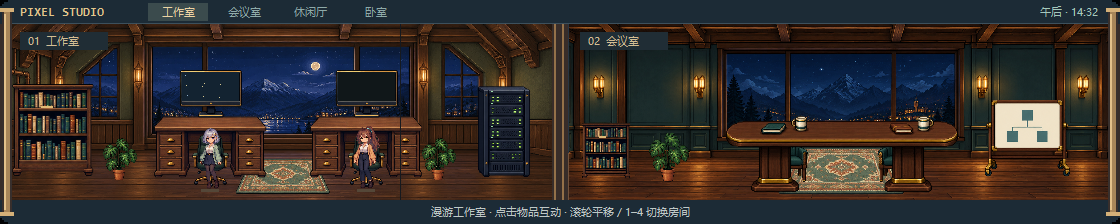
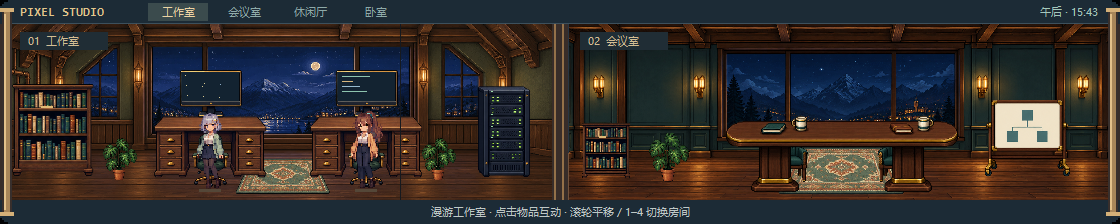
Scale studio characters and companion animations to 125 percent

diff --git a/scene_actors.py b/scene_actors.py
@@ -178,6 +178,7 @@ class ActorLayer:
 
     def draw(self):
         c, now = self.canvas, time.monotonic()
+        scaled = lambda value: round(value*self.characters.WORLD_SCALE)
         c.delete("actors")
         for key, a in sorted(self.actors.items(), key=lambda item: item[1]["y"]):
             x, y = round(a["x"]), round(a["y"])
@@ -188,38 +189,41 @@ class ActorLayer:
             caring_here = caring and not moving
             pose = "speaking" if speaking else "listening" if seated or rising else "idle"
             if seated:
-                y -= round(8*max(0, 1-(now-a["settle_started"])/.4))
+                y -= scaled(8*max(0, 1-(now-a["settle_started"])/.4))
             elif rising:
-                y -= round(8*(1-(a["rise_until"]-now)/.4))
+                y -= scaled(8*(1-(a["rise_until"]-now)/.4))
             elif caring_here:
-                y += 2
+                y += scaled(2)
             tag = ("actors", "actor:"+key)
             a["front"] = y >= 180
-            c.create_rectangle(x-9, y-1, x+9, y+2, fill="#544738", outline="", tags=tag)
+            c.create_rectangle(x-scaled(9), y-scaled(1), x+scaled(9), y+scaled(2), fill="#544738", outline="", tags=tag)
             image, dx, dy = self.characters.sample(key, a["state"], moving=moving and not rising,
                                                    pose=pose, facing=a["facing"])
             if image:
                 width, height = image.width(), image.height()
                 c.create_image(x+dx, y+dy, image=image, anchor="s", tags=tag)
             else:
-                draw_fallback(c, x+dx, y+dy, self.characters.assignments.get(key, 0), tag)
-                width, height = 20, 40
+                draw_fallback(c, x+dx, y+dy, self.characters.assignments.get(key, 0), tag,
+                              scale=self.characters.WORLD_SCALE)
+                width, height = scaled(20), scaled(40)
             a["image"] = image
             a["bounds"] = (x+dx-width//2, y+dy-height, x+dx-width//2+width, y+dy)
             if caring_here:
                 self._draw_care(x+dx, y+dy, height, a, now, tag)
             if now < a["react_until"]:
                 lift = int((now*6) % 2)
-                c.create_line(x+width//2+1, y-height+12, x+width//2+4, y-height+8-lift,
-                              fill="#e6c58a", width=2, tags=tag)
-                c.create_rectangle(x+width//2+6, y-height+4-lift, x+width//2+8, y-height+6-lift,
+                c.create_line(x+width//2+scaled(1), y-height+scaled(12),
+                              x+width//2+scaled(4), y-height+scaled(8-lift),
+                              fill="#e6c58a", width=scaled(2), tags=tag)
+                c.create_rectangle(x+width//2+scaled(6), y-height+scaled(4-lift),
+                                   x+width//2+scaled(8), y-height+scaled(6-lift),
                                    fill="#f0d4a0", outline="", tags=tag)
             badge = "?" if a["state"] in {"unknown", "notLoaded"} else "!" if a["state"] == "systemError" else ""
             if badge and key == self.selected:
-                c.create_text(x-width//2-5, y-height+5, text=badge, fill=COLORS[a["state"]],
-                              font=("Consolas", 10, "bold"), tags=tag)
+                c.create_text(x-width//2-scaled(5), y-height+scaled(5), text=badge, fill=COLORS[a["state"]],
+                              font=("Consolas", scaled(10), "bold"), tags=tag)
             if key == self.selected:
-                c.create_rectangle(x-9, y+3, x+9, y+5, fill="#f3ca7d", outline="", tags=tag)
+                c.create_rectangle(x-scaled(9), y+scaled(3), x+scaled(9), y+scaled(5), fill="#f3ca7d", outline="", tags=tag)
             if a["meeting"]:
                 activity = ("入座中" if moving and y < 185 else "前往会议室") if moving else ("交流中" if speaking else "听取总结")
             elif caring:
@@ -231,42 +235,50 @@ class ActorLayer:
             label = a["name"] + " · " + activity
             a["label_bounds"] = (0, 0, 0, 0)
             if key == self.selected or now < a["react_until"]:
-                a["label_bounds"] = (x-54, y-height-24, x+54, y-height-9)
+                a["label_bounds"] = (x-scaled(54), y-height-scaled(24), x+scaled(54), y-height-scaled(9))
                 c.create_rectangle(*a["label_bounds"], fill="#1c2b36", outline="#475758", tags=tag)
-                c.create_text(x, y-height-17, text=label[:18], fill=COLORS[a["state"]],
-                              font=("Microsoft YaHei UI", 7), tags=tag)
+                c.create_text(x, y-height-scaled(17), text=label[:18], fill=COLORS[a["state"]],
+                              font=("Microsoft YaHei UI", scaled(7)), tags=tag)
 
     def _draw_care(self, x, y, height, actor, now, tag):
         """Small pixel reach and props share the actor's existing draw layer."""
         c = self.canvas
+        scale = self.characters.WORLD_SCALE
+        def rect(x1, y1, x2, y2, **options):
+            c.create_rectangle(round(x+x1*scale), round(y+y1*scale),
+                               round(x+x2*scale), round(y+y2*scale), **options)
+        def line(x1, y1, x2, y2, **options):
+            options["width"] = max(1, round(options.get("width", 1)*scale))
+            c.create_line(round(x+x1*scale), round(y+y1*scale),
+                          round(x+x2*scale), round(y+y2*scale), **options)
         elapsed = max(0, now-(actor["care_started"] or now))
         beat = int(elapsed/.38) % 4
         bob = (0, 1, 0, -1)[beat]
-        hand_x, hand_y = x+16, y-max(15, height//2)+8+bob
+        hand_x, hand_y = 16, -max(15, height/(2*scale))+8+bob
         sleeve = "#8dad99" if self.characters.assignments.get(actor["id"], 0) == 0 else "#d3a37c"
-        c.create_rectangle(x+5, hand_y-10, x+10, hand_y-3, fill=sleeve, outline="", tags=tag)
-        c.create_rectangle(x+8, hand_y-5, hand_x, hand_y, fill=sleeve, outline="", tags=tag)
-        c.create_rectangle(hand_x-1, hand_y-3, hand_x+4, hand_y+1, fill="#e9c6a7", outline="", tags=tag)
+        rect(5, hand_y-10, 10, hand_y-3, fill=sleeve, outline="", tags=tag)
+        rect(8, hand_y-5, hand_x, hand_y, fill=sleeve, outline="", tags=tag)
+        rect(hand_x-1, hand_y-3, hand_x+4, hand_y+1, fill="#e9c6a7", outline="", tags=tag)
         action = self.care["action"]
         if action in {"feed", "water"}:
             color = "#dfb579" if action == "feed" else "#8fcad4"
             for index in range(3):
                 drop = (beat+index*2) % 6
                 px, py = hand_x+4+index*3, hand_y+3+drop*3
-                c.create_rectangle(px, py, px+2, py+(2 if action == "feed" else 3),
+                rect(px, py, px+2, py+(2 if action == "feed" else 3),
                                    fill=color, outline="", tags=tag)
         elif action == "play":
-            c.create_line(hand_x+2, hand_y-1, hand_x+13, hand_y-7,
+            line(hand_x+2, hand_y-1, hand_x+13, hand_y-7,
                           fill="#d9bd8c", width=2, tags=tag)
-            c.create_line(hand_x+13, hand_y-7, hand_x+15+bob, hand_y+7,
+            line(hand_x+13, hand_y-7, hand_x+15+bob, hand_y+7,
                           fill="#ead9b8", width=1, tags=tag)
-            c.create_rectangle(hand_x+12+bob, hand_y+7, hand_x+18+bob, hand_y+11,
+            rect(hand_x+12+bob, hand_y+7, hand_x+18+bob, hand_y+11,
                                fill="#d89179", outline="", tags=tag)
         else:
             hx, hy = hand_x+8, hand_y-12-bob
             for ox, oy, width, height in ((0, 0, 3, 3), (5, 0, 3, 3),
                                           (0, 2, 8, 3), (2, 5, 4, 2), (3, 7, 2, 1)):
-                c.create_rectangle(hx+ox, hy+oy, hx+ox+width, hy+oy+height,
+                rect(hx+ox, hy+oy, hx+ox+width, hy+oy+height,
                                    fill="#dca395", outline="", tags=tag)
 
     def raise_walkers(self):

diff --git a/character_sprites.py b/character_sprites.py
@@ -25,6 +25,14 @@ def character_bank(widget):
 
 
 class CharacterSprites:
+    WORLD_SCALE = 5/4
+
+    @staticmethod
+    def world_frame(image):
+        # Keep the existing integer sampling, then enlarge by exactly 5:4.
+        # Cache the resulting frames at load time, including their transparency.
+        return image.zoom(5, 5).subsample(4, 4)
+
     def __init__(self, root):
         self.root = root
         self.assignments = {"companion:codex": 0, "companion:kimi": 1}
@@ -43,7 +51,8 @@ class CharacterSprites:
                     for x1, y1, x2, y2 in row:
                         crop = tk.PhotoImage(master=root, width=x2-x1, height=y2-y1)
                         root.tk.call(crop, "copy", sheet, "-from", x1, y1, x2, y2, "-to", 0, 0)
-                        frames.append(crop.subsample(factor))
+                        sampled = crop.subsample(factor)
+                        frames.append(self.world_frame(sampled) if size == "world" else sampled)
                     variants.append(frames)
                 self.frames[size] = variants
         except (OSError, ValueError, KeyError, TypeError, tk.TclError):
@@ -59,7 +68,7 @@ class CharacterSprites:
                     for x1, y1, x2, y2 in row[pose]:
                         crop = tk.PhotoImage(master=root, width=x2-x1, height=y2-y1)
                         root.tk.call(crop, "copy", sheet, "-from", x1, y1, x2, y2)
-                        frames.append(crop.subsample(factor))
+                        frames.append(self.world_frame(crop.subsample(factor)))
                     variants.append(frames)
                 self.motion[pose] = variants
         except (OSError, ValueError, KeyError, TypeError, tk.TclError):
@@ -112,10 +121,11 @@ class CharacterSprites:
             if str(image) not in self.mirrored:
                 self.mirrored[str(image)] = image.subsample(-1, 1)
             image = self.mirrored[str(image)]
-        return image, sway, breathe
+        scale = self.WORLD_SCALE if size == "world" else 1
+        return image, round(sway*scale), round(breathe*scale)
 
 
-def draw_fallback(canvas, x, feet, variant, tag):
+def draw_fallback(canvas, x, feet, variant, tag, *, scale=1):
     """Small human silhouette if the optional PNG cannot be read."""
     hair = "#b7accb" if variant == 0 else "#855b47"
     coat = "#8dad99" if variant == 0 else "#d3a37c"
@@ -125,5 +135,6 @@ def draw_fallback(canvas, x, feet, variant, tag):
         (-6, -8, 5, 8, "#293849"), (1, -8, 5, 8, "#293849"),
         (-3, -29, 2, 2, "#263443"), (2, -29, 2, 2, "#263443"),
     ):
-        canvas.create_rectangle(x+dx, feet+dy, x+dx+w, feet+dy+h,
+        canvas.create_rectangle(round(x+dx*scale), round(feet+dy*scale),
+                                round(x+(dx+w)*scale), round(feet+(dy+h)*scale),
                                 fill=color, outline="", tags=tag)

diff --git a/README.md b/README.md
@@ -26,7 +26,7 @@ Windows 桌面悬浮小组件：一座有工作、交流、休憩与照护活动
 - **真实模型照护**：`k3-256k` 通过本机网关生成小猫心愿，选择行动和照护伙伴。Codex 或 Kimi 走到位并完成动作后才更新数值和照护记录；总结会议优先，过期安排丢弃。可随时暂停思考，连接失败会显示错误，不用规则冒充模型决定
 - **Codex / Kimi 常驻伙伴**：两位角色拥有固定身份；Codex 展示本机最近活动的主任务、执行状态和模型，Kimi 展示网关中真实的 Kimi 模型调用、接收阶段、耗时与最近传输结果。约每 2 秒读取一次，历史子代理不再决定角色数量。角色常驻不表示有两个子代理正在运行
 - **自动总结会**：Codex 进入最终答复阶段，或观察到本轮任务刚结束时，两位伙伴步行到会议室、入座交流；结束信号后保留约 35 秒再起身返回。会议完全由真实状态触发，白板与长桌可查看说明；下方卡片继续展示真实状态
-- **像素美少女造型**：Codex 固定银紫短发／薄荷开衫，Kimi 固定栗色马尾／杏色开衫；画卷与伙伴卡共用精灵图。场景人物约 64px 高，列表头像约 38px 高，刷新和状态变化不会换造型
+- **像素美少女造型**：Codex 固定银紫短发／薄荷开衫，Kimi 固定栗色马尾／杏色开衫；画卷与伙伴卡共用精灵图。场景人物以原版的 1.25 倍显示（高度上限约 80px），列表头像约 38px 高，刷新和状态变化不会换造型
 - **待机动画**：四帧精灵配合轻微呼吸、重心摆动，约每 4.2–6 秒眨眼；两位伙伴的动作错开节奏。待机动画只表现角色外观，数据不可用时仍显示“状态未知”，不会因动作被计为运行中
 - **连续动作**：独立步行动作帧、随移动方向转身、坐下与起立过渡；开会时面对彼此，交替发言、抬手与点头，白板逐步出现示意笔迹、杯口飘出蒸汽。空闲时在活动区小范围散步，点击伙伴会回应。画卷约 33ms 推进与合并绘制，家具保留原来的动画节奏；房间切换使用平滑镜头
 - **合并渲染**：提前准备透明窗口与固定画布，使用遮罩展开画卷，窄栏保持屏幕位置；收放与场景共用动画时钟。人物、物品效果和界面图元复用，尺寸与输入变化合并到一次绘制，避免每帧重建图元及反复缩放整个窗口。

diff --git a/docs/02-常驻伙伴与总结会议.md b/docs/02-常驻伙伴与总结会议.md
@@ -48,7 +48,8 @@
 
 ## 动画与素材
 
-- `characters-idle.png` 保留两套四帧待机动作；`characters-motion.png` 是以原角色为参考生成的 1774×887 RGBA 图集，每套增加四帧步行、两帧坐姿、两帧发言，坐标见同名 JSON。不同姿态使用统一整数采样比例，方向在 Tk 中镜像，图片源文件不改写。
+- `characters-idle.png` 保留两套四帧待机动作；`characters-motion.png` 是以原角色为参考生成的 1774×887 RGBA 图集，每套增加四帧步行、两帧坐姿、两帧发言，坐标见同名 JSON。不同姿态保留原版 64px 基准的整数采样，再统一以 5:4 最近邻放大并在加载时缓存，场景高度上限约 80px，像素尺寸最多有约 1px 舍入。方向在 Tk 中镜像，图片源文件不改写；列表头像仍按 38px 基准采样。
+- 场景人物的阴影、姓名牌、回应与照护手势、坐下起立位移和素材缺失时的轮廓同步按 1.25 倍绘制；脚底、过道路线、座位与照护站位坐标固定，命中尺寸和会议气泡位置从实际图片派生。
 - 伙伴按过道路径连续移动，横向约 165px/s、入座纵向约 55px/s；目标变化从当前位置重规划，2 秒状态刷新不会重置未完成的动作。
 - 到位后用约 0.4 秒的坐下过渡，双方就座后开始交流动画，每 5 秒交换发言者并留短暂停顿；倾听方眨眼、点头，发言方切换抬手动作和点状气泡。散会有对应起立过渡。轮流发言和白板示意笔迹只是动画，不是实际模型消息或输出内容。
 - 未在照护或会议中的空闲伙伴每隔约 10–13 秒在活动区小范围散步，真实状态变化更新正常活动目的地；会议优先接管路线。点击伙伴显示任务并播放约 1.4 秒的回应。
